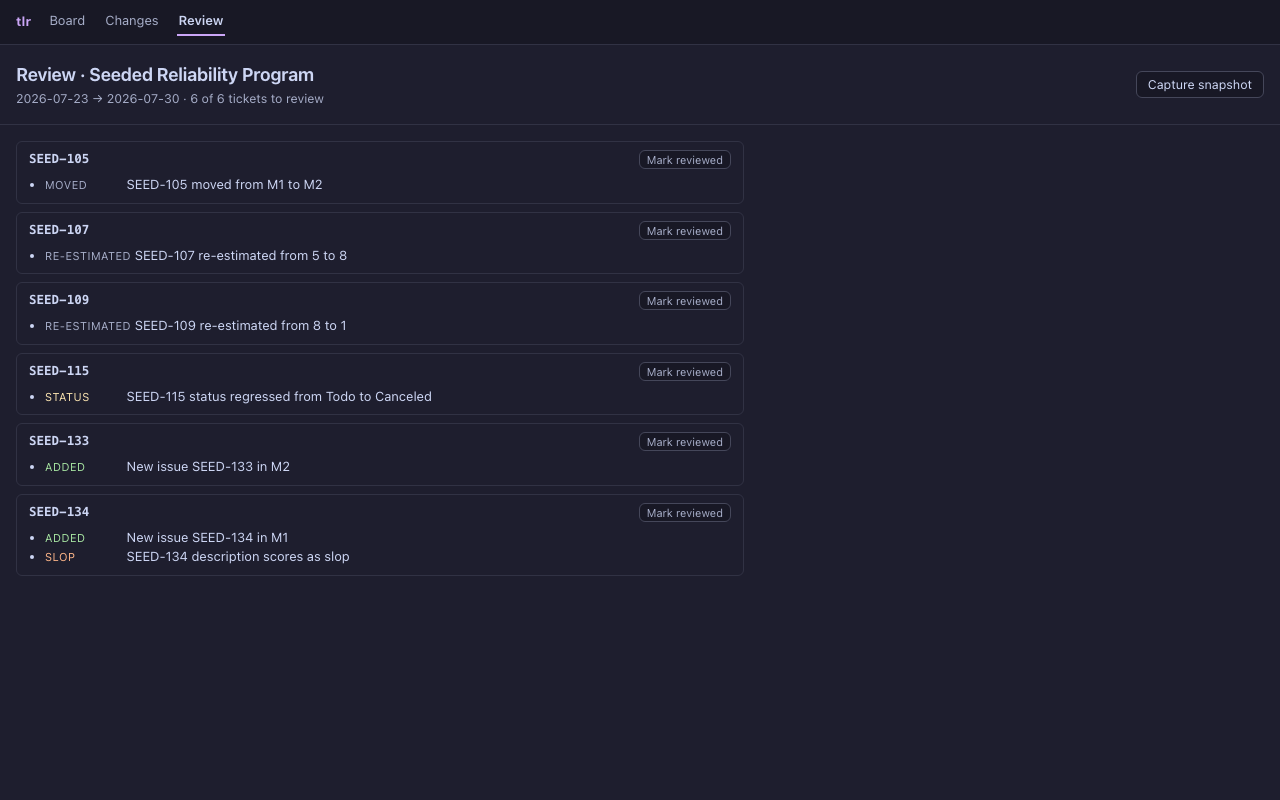
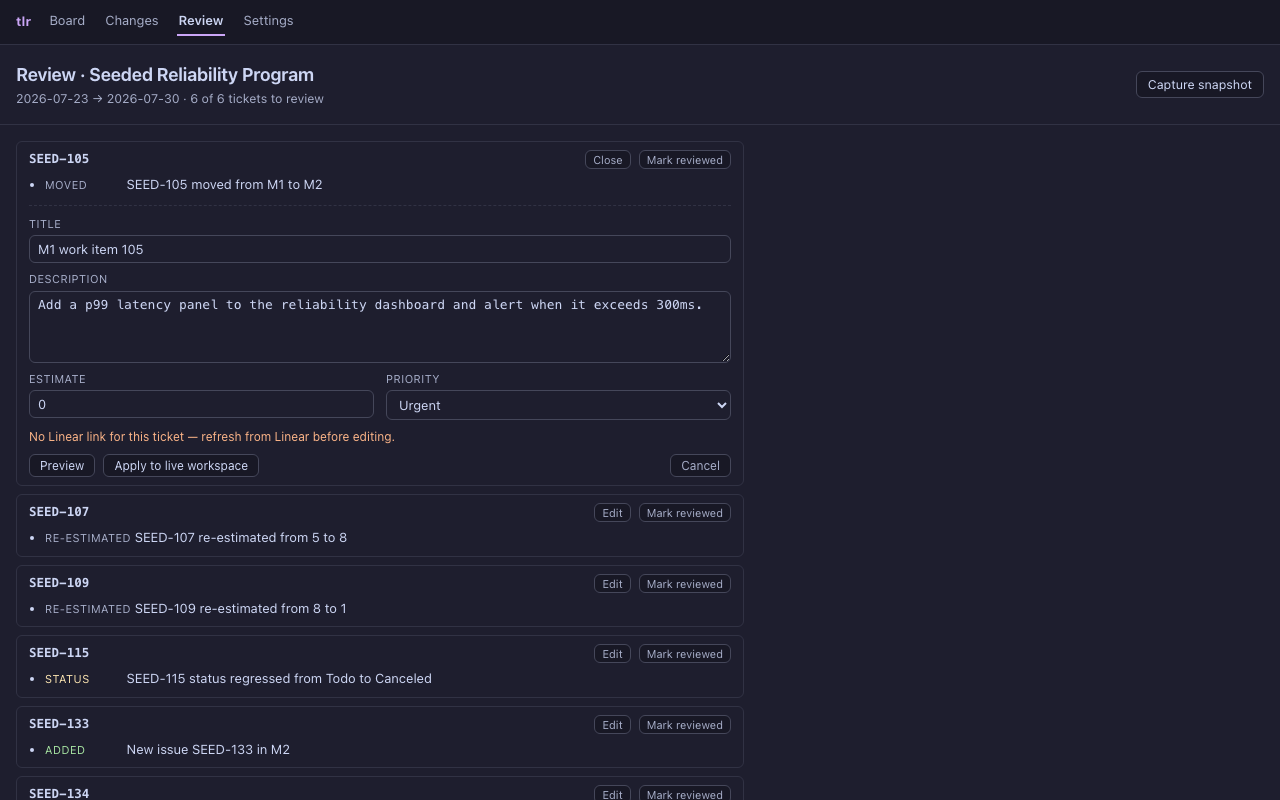
docs: refresh screenshots for the edit flow and settings page

diff --git a/tests/e2e/screenshots.spec.ts b/tests/e2e/screenshots.spec.ts
@@ -9,12 +9,18 @@ const pages: [path: string, name: string, ready: string][] = [
   ["/", "board", "#grid tr"],
   ["/changes", "changes", ".rsec"],
   ["/review", "review", ".rgroup"],
+  ["/settings", "settings", ".cfg-nav-item"],
 ]
 
 for (const [path, name, ready] of pages) {
   test(`screenshot: ${name}`, async ({ page }) => {
     await page.goto(path)
     await page.locator(ready).first().waitFor({ state: "visible" })
+    // Open the first edit form so the Review shot shows the in-flow fix, not just the change list.
+    if (name === "review") {
+      await page.locator("button[data-edit]").first().click()
+      await page.locator("form.editf").first().waitFor({ state: "visible" })
+    }
     await page.screenshot({ path: `${OUT}/${name}.png` })
   })
 }

diff --git a/ROADMAP.md b/ROADMAP.md
@@ -43,9 +43,10 @@ product:
 - Milestone naming: headers show the name (an "M1: " prefix stripped) truncated to a narrow column,
   full name and detail in the hover, so a project with plain milestone names renders correctly
 - Snapshot history and pages: the server captures a snapshot on refresh (into an env-overridable
-  store) and serves list, report, and review endpoints. The web app is now three routed pages behind a
-  shared nav (Board, Changes, Review). Changes renders the weekly update; Review groups edits by ticket
-  with a mark-reviewed toggle
+  store) and serves list, report, and review endpoints. The web app is now routed pages behind a shared
+  nav (Board, Changes, Review, Settings). Changes renders the weekly update; Review groups edits by
+  ticket with a mark-reviewed toggle; Settings holds appearance, capacity, roster, calendar overrides,
+  and integrations, moved off the board's old dialog
 - In-flow fixes: the Review page edits a ticket's title, description, estimate, or priority, previews
   the change (dry run), then applies it to Linear on confirm. This is the only write path, and only from
   the UI. Demo mode (`TLR_DEMO=1`) points it at the free/test workspace with a visible banner; live mode
@@ -110,9 +111,6 @@ items depending on them are marked below.
 
 Ordered by payoff. Unblocked unless a "(blocked: ...)" note says otherwise.
 
-- **Settings page.** The nav has Board, Changes, and Review today; the config still opens as a dialog
-  on the board. Give it its own routed Settings page with the same chrome, folding in appearance,
-  capacity, roster, calendar overrides, and integrations, then the secrets panel below.
 - **Editing the fields that need a name-to-UUID lookup.** The Review-page edit form covers title,
   description, estimate, and priority. Milestone, status, cycle, and assignee moves need their target
   resolved to a Linear UUID (the snapshot carries names, not ids for these). Add the resolution to

diff --git a/README.md b/README.md
@@ -54,6 +54,10 @@ Writes run in one of two modes, chosen at launch. Live mode (the default) uses y
 Demo mode (`TLR_DEMO=1`) points every write at a free/test workspace and shows a banner, so you can try
 edits without touching real tickets. See [SETUP.md](SETUP.md) for storing each key in the keychain.
 
+Settings holds appearance, capacity, roster, calendar overrides, and integrations on its own page.
+
+![The settings page](docs/images/settings.png)
+
 Screenshots come from the end-to-end suite against seed data. They refresh only on demand, so they do
 not churn on every run. Regenerate them after a UI change with `deno task screenshots`.
 
